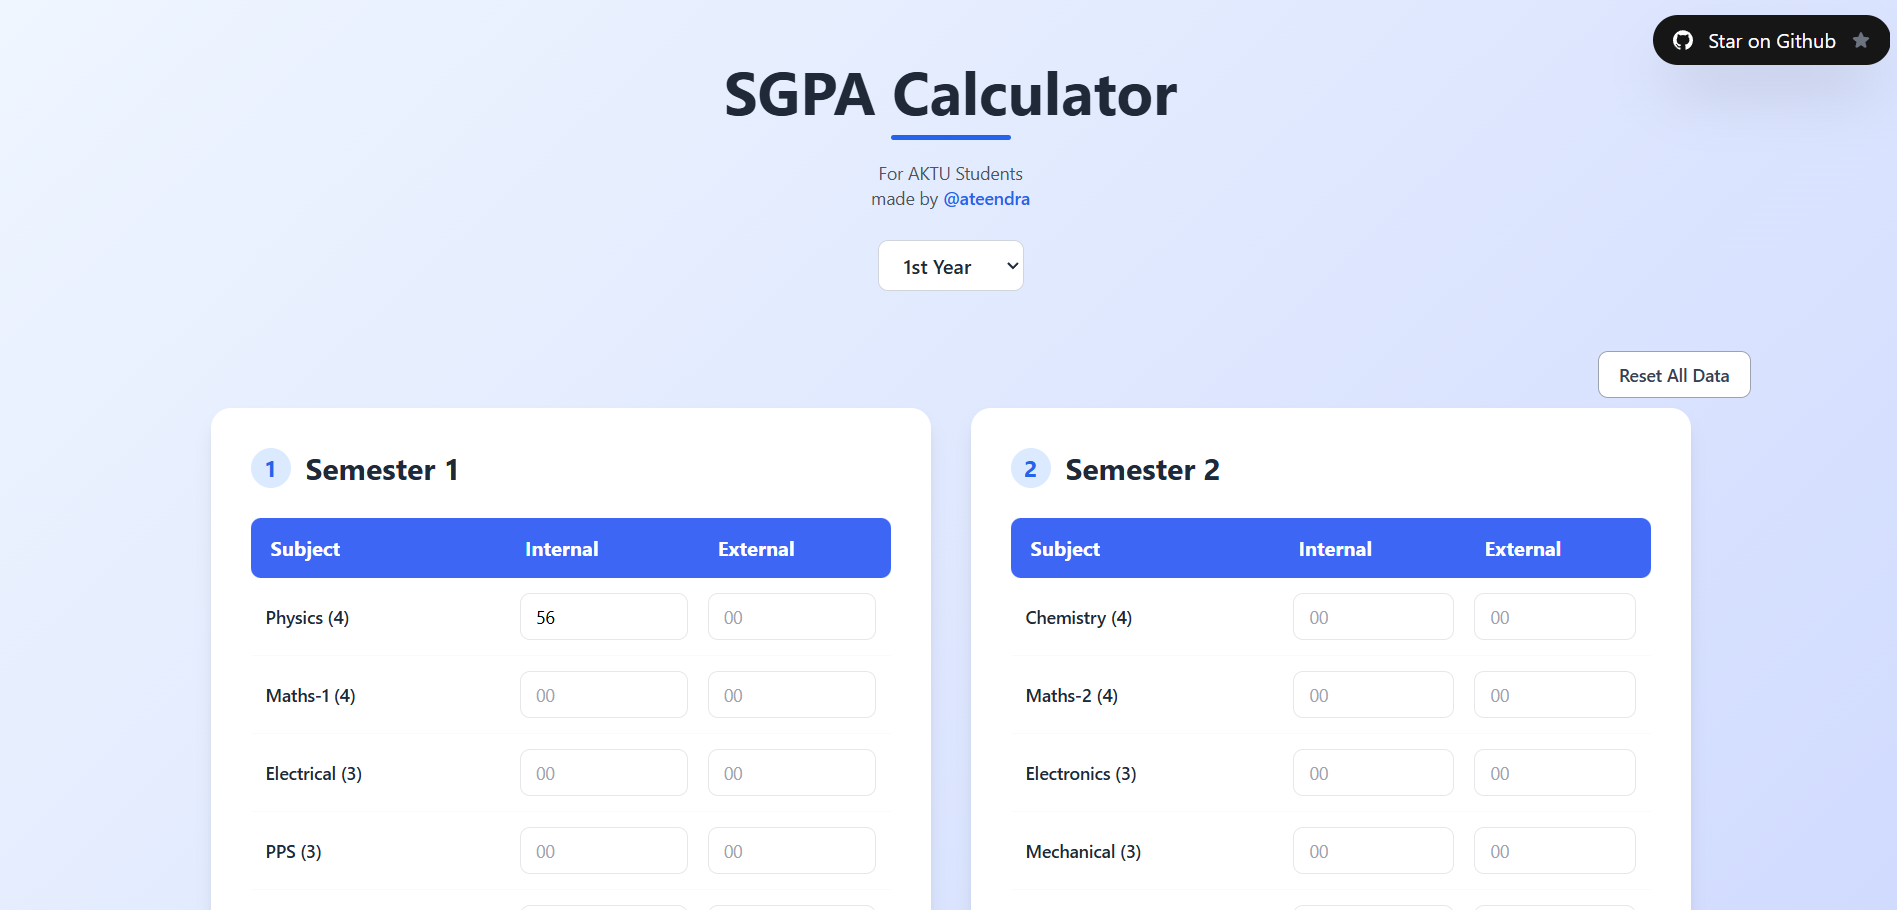
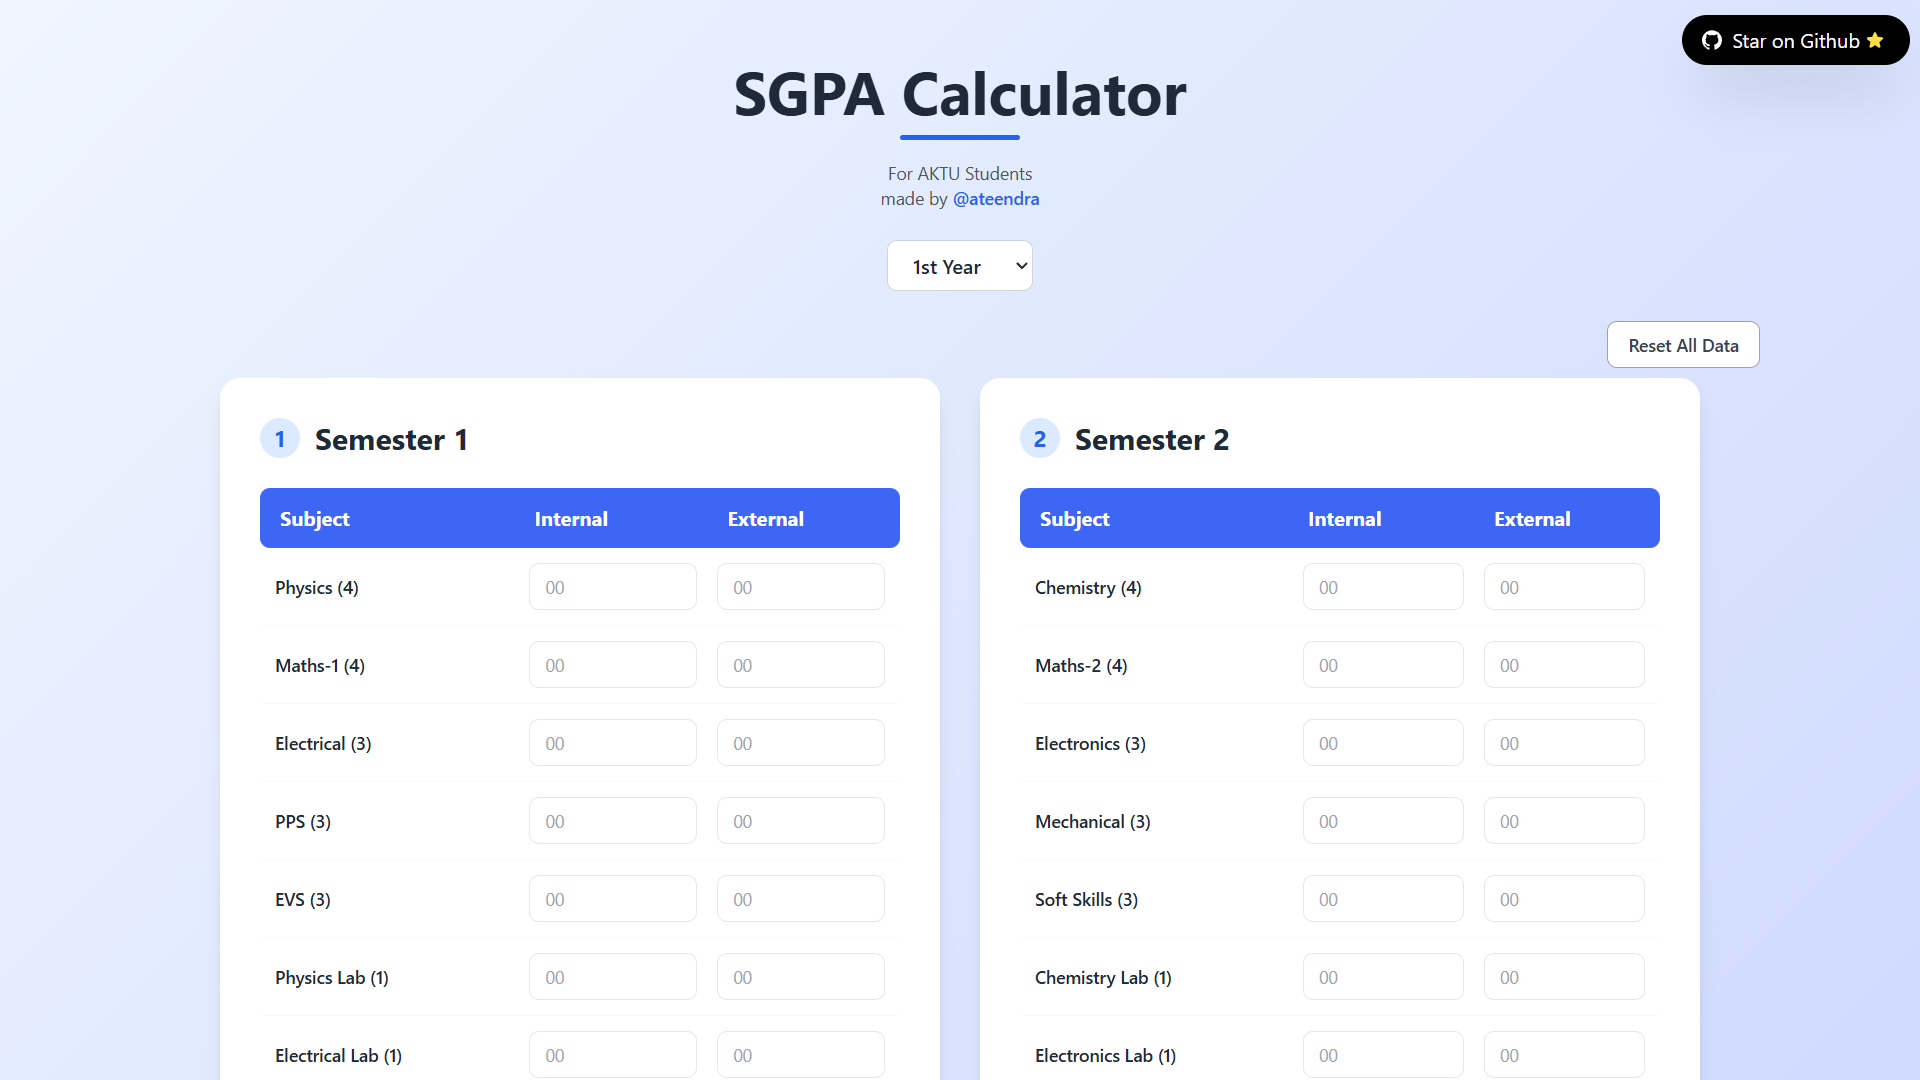
fix: update README

diff --git a/src/components/YearComponent.jsx b/src/components/YearComponent.jsx
@@ -281,7 +281,7 @@ function YearComponent({ year }) {
                         </div>
 
                         {/* Year {year} YGPA */}
-                        <div className="text-2xl sm:text-3xl font-bold text-gray-800 flex items-center gap-3 mt-3">
+                        <div className="text-xl sm:text-2xl font-bold text-gray-800 flex items-center gap-3 mt-3">
                             Year {year} YGPA: <span className="text-red-600 bg-red-50 px-4 py-1.5 rounded-xl border border-red-100 shadow-sm">{ygpa}</span>
                         </div>
                     </div>
